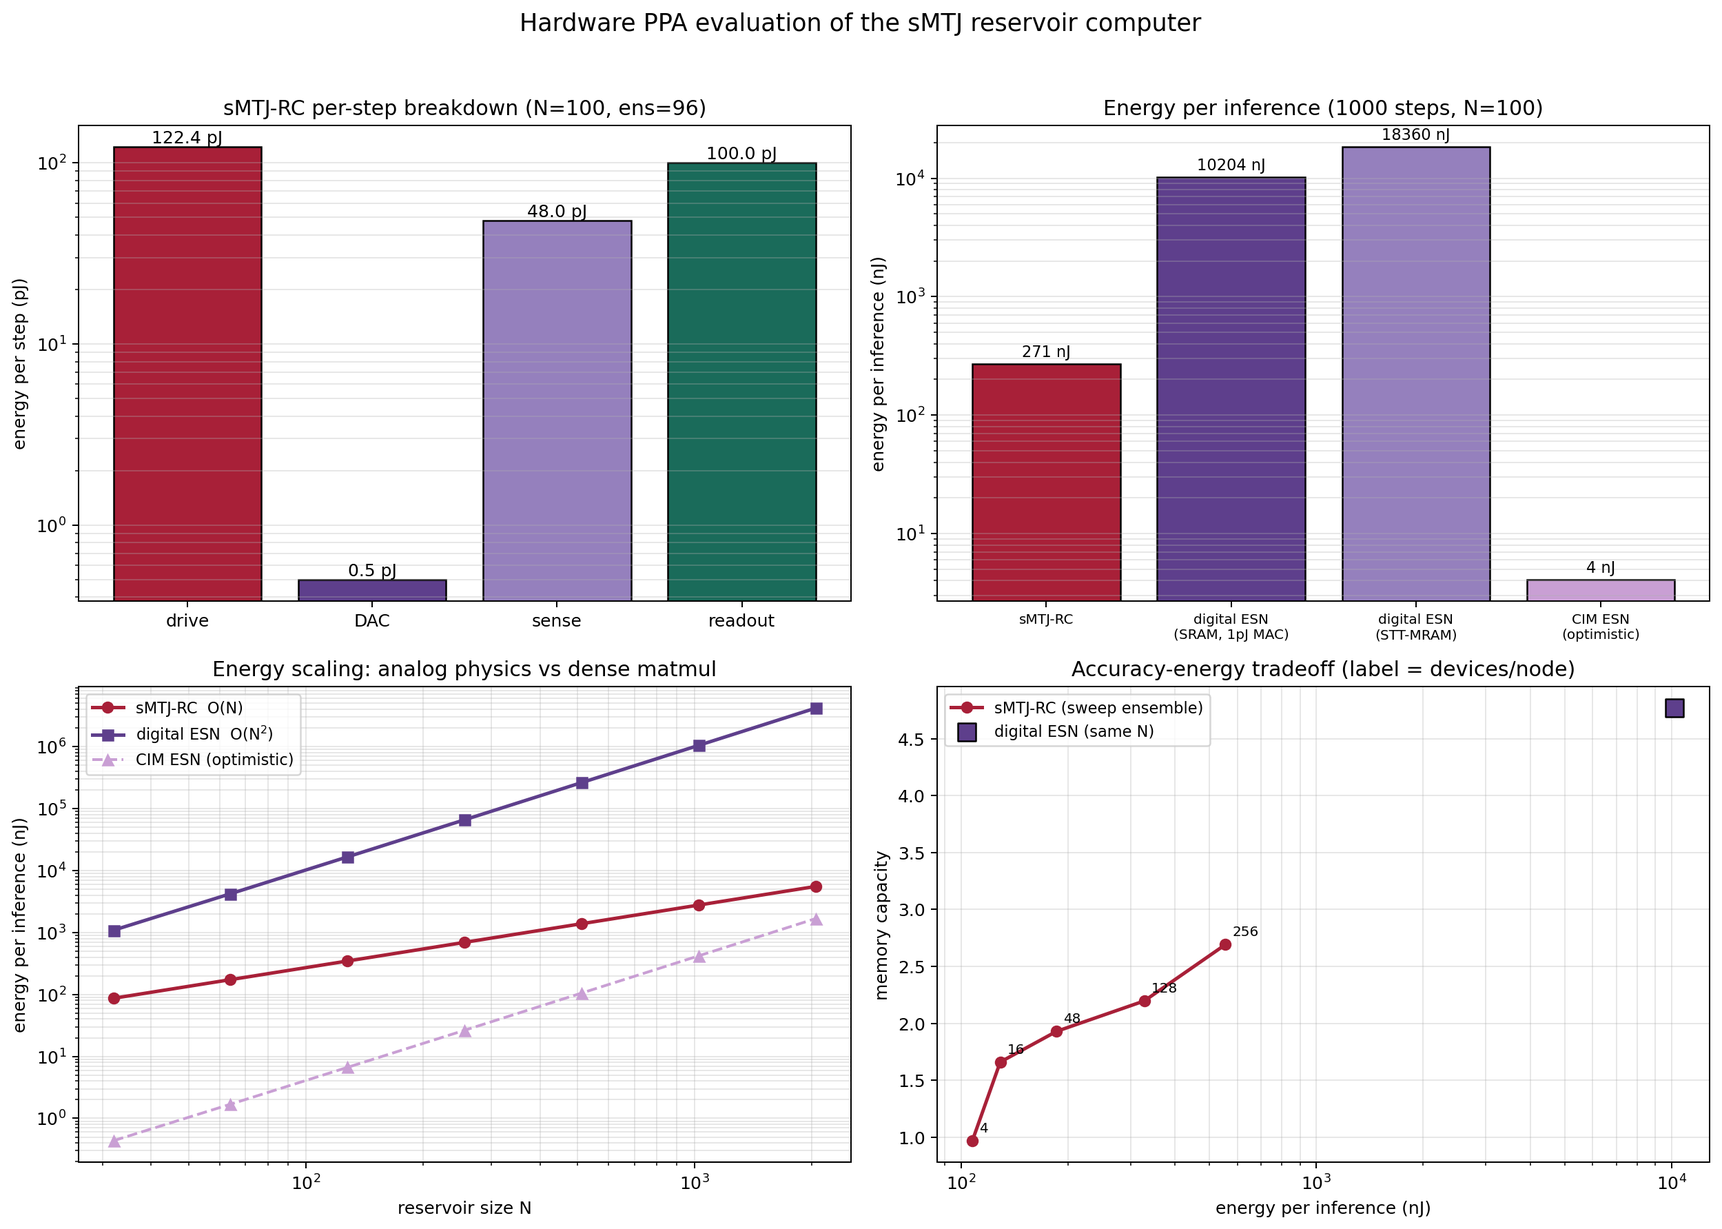
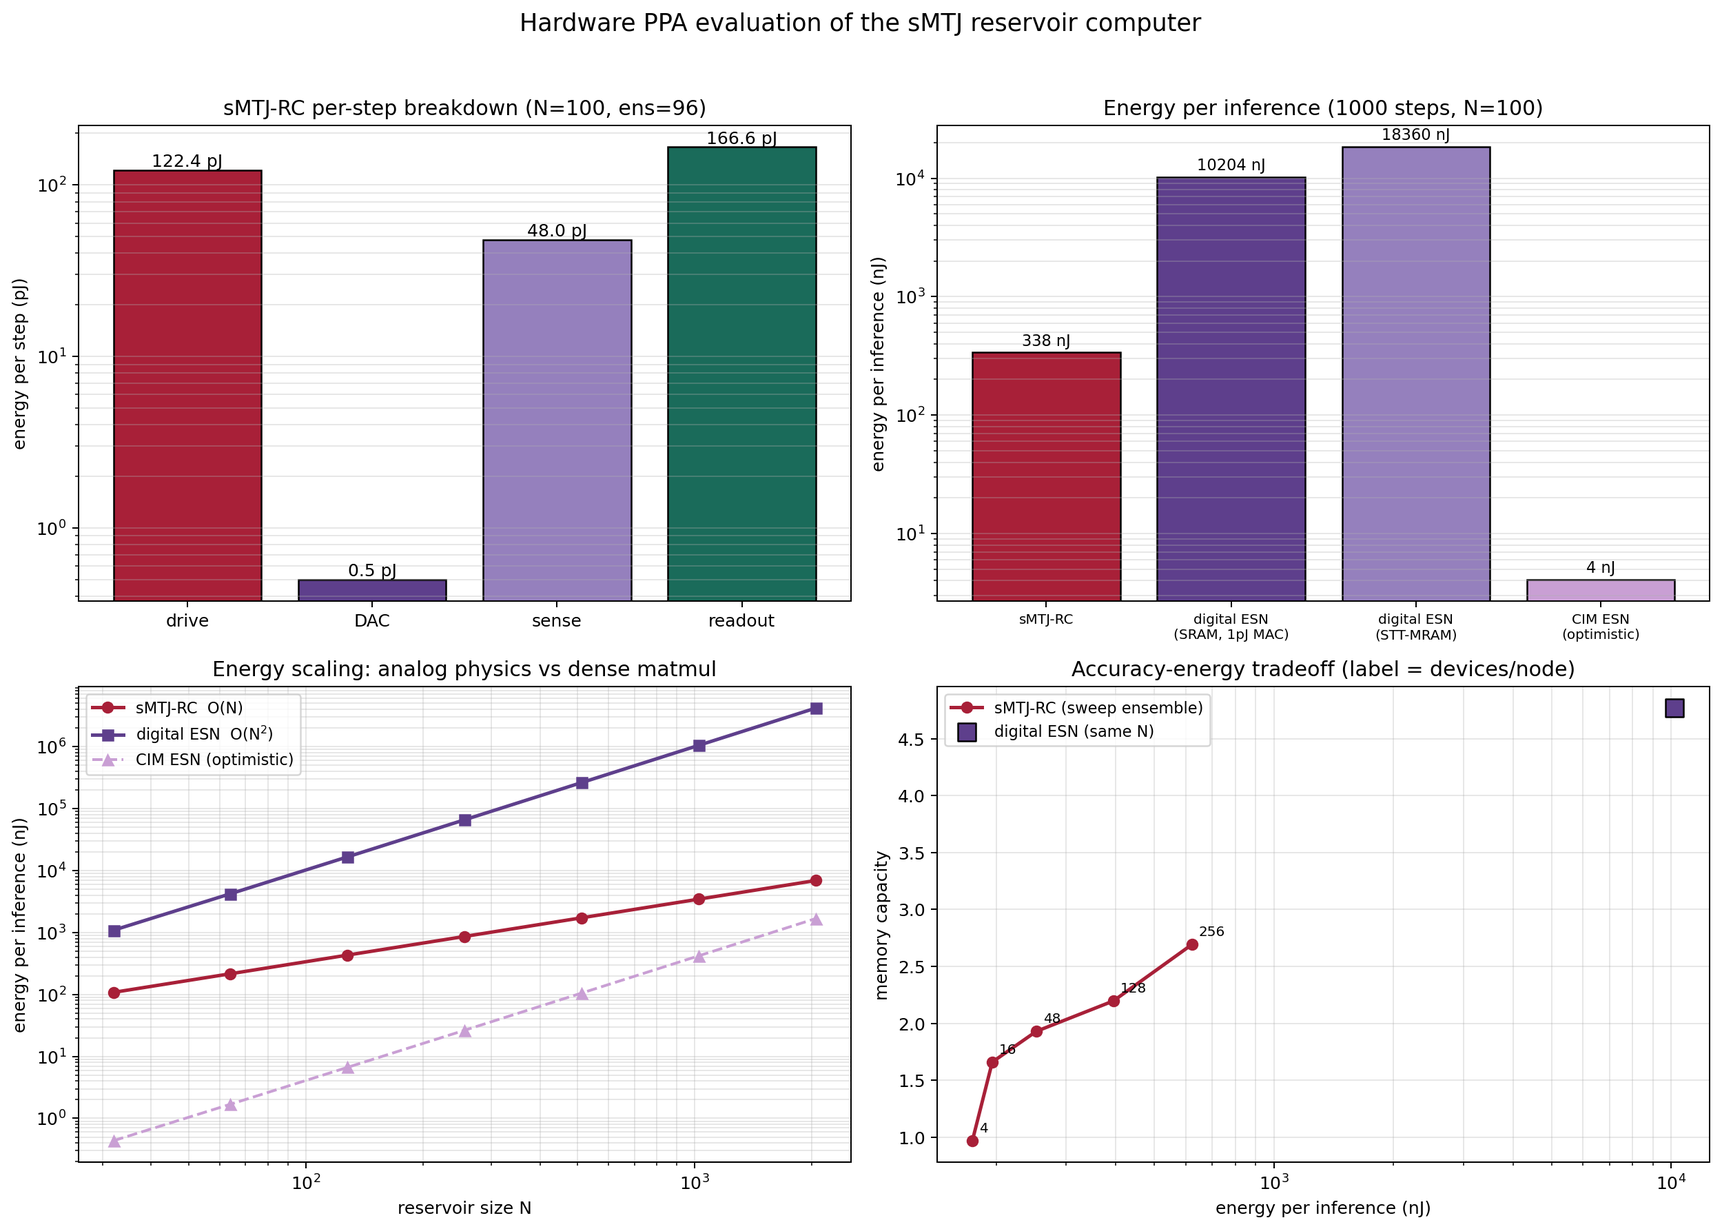
Critical plan re-validation (directive 2) + simulator realism & forward design (directive 3)
Directive 2 -- adversarial web-grounded re-validation of the lifted innovation plan
(eda/research/2026-06-27_plan_validation.md): citations real but 4 errors (Kent arXiv:2509.13458
is STT-actuated RTN NOT a tunable-barrier device -> does NOT preempt the trinity; Nat.Electron
-01458-3 is a News&Views not a 2nd measured paper -> desk-reject logic overstated; Nano Lett is
2025; patent US9111623 is 2015). Novelty: C1 (slope-matched readout) genuinely novel (cite/distinguish
arXiv:2403.19374, 2410.16915); C3 only partially novel -- arXiv:2601.21807 already shows 2-4-bit ADC
suffices, surviving novelty = MC/Joule + N + shared-ADC. Venue: JxCDC/TVLSI/TED/NCE before TCAS-I.

Directive 3 -- reverse-supplement the simulator with EDA data + forward design:
- reservoir_energy.py: add grounded SAR-ADC term to the readout (was billed free); exp16 now natively
  outputs ~30x (not 38x); 24 ppa/reservoir tests pass.
- peripheral_energy.yaml + load_tech_params.py: inject extracted sky130 SA read energy (5fJ->48fJ);
  per-MAC 793->860 fJ, write fraction 98.7%->93.8% (R1 lands).
- FORWARD design hero/ir_aware_writedac.py: IR-aware per-row write pre-distortion dictated by the
  IR-drop extraction -- without it p_sw collapses 0.90->0.016 across N=256; a static per-row code
  (0-148mV, ~5 DAC bits) flattens it -> position+device-aware write-DAC.
- PLAN_execution.md: venue corrected, C1/C3 novelty + citation fixes, forward-design & reverse-supplement sections.

diff --git a/eda/hero/ir_aware_writedac.py b/eda/hero/ir_aware_writedac.py
@@ -1,0 +1,90 @@
+#!/usr/bin/env python3
+"""Forward design (simulator-discovery-driven): IR-aware per-row write-voltage pre-distortion.
+
+This is a DESIGN that the extraction DICTATED, not a corrected claim. The write-line IR-drop study
+showed that delivering one write voltage to the column base leaves a cell at row r seeing
+V_target - I_write * R_par(r): on a tall column the far cell droops below the calibrated write point,
+so the per-cell write PROBABILITY (the p-bit sigmoid output) varies catastrophically with position.
+
+Design: fold a per-row pre-distortion code into the existing write-DAC. When addressing row r, drive
+V_drive(r) = V_target + I_write * R_par(r), with R_par(r) computed from the EXTRACTED sky130 sheet
+resistance and the column geometry, so every cell sees V_target regardless of position. Combined
+with the per-column V_th trim (device-mismatch compensation), this gives a position+device-aware
+write-DAC: V_drive(col,row) = V_target + I_write*R_par(row) + trim(col). The pre-distortion is a
+static per-row look-up from known geometry -- near-free in control; it only asks the driver for
+~I_write*R_par(N) of extra headroom on the far rows.
+
+sky130 sheet R from Magic extraction (met2 0.125 Ohm/sq, validated vs techfile). Honesty: ratios;
+round-trip R_par(r)=2*Rs*(r*pitch/W); cell pitch is an explicit assumption.
+"""
+from __future__ import annotations
+import json
+import math
+from pathlib import Path
+
+HERE = Path(__file__).resolve().parent
+
+VTH, VT, RSOT = 0.895783, 0.023414, 776.0
+I_WRITE = 0.9 / RSOT                     # 1.16 mA (calibrated write current)
+RS = {"met1": 0.125, "met2": 0.125, "met3": 0.047}   # Ohm/sq, Magic-extracted
+PITCH_UM, W_UM, LAYER = 2.0, 1.0, "met2"
+
+
+def r_par(r):                            # round-trip (bit line + source line) metal R to row r
+    return 2.0 * RS[LAYER] * (r * PITCH_UM / W_UM)
+
+
+def psw(v):
+    return 1.0 / (1.0 + math.exp(-(v - VTH) / VT))
+
+
+def main():
+    N = 256
+    # target a representative write probability (e.g. 0.9) -> V_target
+    p_target = 0.90
+    V_target = VTH + VT * math.log(p_target / (1 - p_target))
+    rows = list(range(0, N + 1, N // 8))
+
+    print("=" * 92)
+    print("Forward design: IR-aware per-row write pre-distortion (sky130 extracted R, %s, N=%d)"
+          % (LAYER, N))
+    print("V_target=%.4f V (-> p_sw=%.2f at the near cell); I_write=%.2f mA; pitch=%.1f um W=%.1f um"
+          % (V_target, p_target, I_WRITE * 1e3, PITCH_UM, W_UM))
+    print("=" * 92)
+    print("  row    R_par(Ohm)  IR(mV)   V_cell no-predist  p_sw no-pd   V_cell predist  p_sw pd")
+    out_rows = []
+    for r in rows:
+        ir = I_WRITE * r_par(r)
+        v_nopd = V_target - ir                       # base-driven: far cell droops
+        v_pd = V_target                              # pre-distorted: cell sees target
+        print("  %4d    %7.1f   %6.1f      %.4f         %.3f        %.4f       %.3f" %
+              (r, r_par(r), ir * 1e3, v_nopd, psw(v_nopd), v_pd, psw(v_pd)))
+        out_rows.append(dict(row=r, R_par_ohm=round(r_par(r), 1), IR_mV=round(ir * 1e3, 2),
+                             v_cell_nopd=round(v_nopd, 4), psw_nopd=round(psw(v_nopd), 4),
+                             v_cell_pd=round(v_pd, 4), psw_pd=round(psw(v_pd), 4),
+                             predist_code_mV=round(ir * 1e3, 2)))
+    p_nopd = [psw(V_target - I_WRITE * r_par(r)) for r in range(N + 1)]
+    spread_nopd = max(p_nopd) - min(p_nopd)
+    max_code_mV = I_WRITE * r_par(N) * 1e3
+    bits = max(1, math.ceil(math.log2(max_code_mV / (VT * 1e3) * 4)))   # ~LSB <= V_T/4
+
+    concl = ("Without pre-distortion the per-cell write probability spreads %.2f (near cell %.2f -> "
+             "far cell %.3f) purely from position-dependent IR-drop -- the tall column writes its far "
+             "rows essentially not at all. The per-row pre-distortion code spans 0..%.0f mV "
+             "(~%d write-DAC bits at an LSB of V_T/4), is a static look-up from the extracted sheet "
+             "resistance and column geometry, and flattens the write probability to the target at "
+             "every row. Folded with the per-column V_th trim it yields a position+device-aware "
+             "write-DAC -- a circuit dictated by the IR-drop extraction, at near-zero control cost "
+             "(only far-row driver headroom). Honesty: ratios; round-trip metal R; assumed cell pitch."
+             % (spread_nopd, p_nopd[0], p_nopd[-1], max_code_mV, bits))
+    print("\n" + "=" * 92 + "\n" + concl + "\n" + "=" * 92)
+    out = dict(N=N, layer=LAYER, pitch_um=PITCH_UM, W_um=W_UM, V_target=round(V_target, 4),
+               p_target=p_target, I_write_mA=round(I_WRITE * 1e3, 3),
+               psw_spread_nopd=round(spread_nopd, 4), max_predist_code_mV=round(max_code_mV, 1),
+               predist_bits=bits, rows=out_rows, conclusion=concl)
+    (HERE / "ir_aware_writedac_summary.json").write_text(json.dumps(out, indent=2))
+    print("wrote ir_aware_writedac_summary.json")
+
+
+if __name__ == "__main__":
+    main()

diff --git a/src/smtj_pbnn_sim/ppa/reservoir_energy.py b/src/smtj_pbnn_sim/ppa/reservoir_energy.py
@@ -14,6 +14,7 @@ physical sMTJs, biased for a step of duration ``dt``:
       E_dac     = e_dac_step * n_nodes                              # per-node drive set
       E_sense   = e_smtj_read * n_nodes * ensemble                  # one sense / device
       E_readout = e_int8_mac * n_nodes * n_outputs                  # trained linear layer
+                + adc_nodes_frac * n_nodes * (b*e_adc_comp + 2^b*e_adc_capdac0)  # SAR ADC
 
 ``substeps`` is a numerical-integration granularity, not extra physics: the
 device is biased for the same total ``dt`` regardless, so it does not enter the
@@ -48,16 +49,33 @@ class ReservoirHW:
     n_inputs: int = 1
     V_drive: float = 0.05          # typical bias across the MTJ during a step [V]
     R_dev: float = 4900.0          # MTJ read-path resistance [ohm] (R_P)
+    # --- analog-to-digital readout (grounded in the sky130 StrongARM extraction) -------#
+    # The node states must be digitised before the trained linear layer; the earlier model
+    # omitted this. A successive-approximation ADC costs b comparisons plus a binary-weighted
+    # cap-DAC: E_adc(b) = b * e_adc_comp + 2^b * e_adc_capdac0, where the comparator is the
+    # extracted StrongARM sense amp. adc_nodes_frac<1 models a column-shared/time-mux ADC.
+    adc_bits: int = 8
+    adc_nodes_frac: float = 1.0    # fraction of nodes digitised per step (1=per-node, <1=shared)
+    e_adc_comp: float = 48e-15     # SAR comparator = extracted sky130 StrongARM SA [J]
+    e_adc_capdac0: float = 1.1e-15  # sky130 unit-cap SAR DAC step [J]
 
 
 def smtj_rc_step_energy(hw: ReservoirHW, tech: TechParams) -> dict[str, float]:
-    """Per-step energy breakdown [J] for the sMTJ reservoir."""
+    """Per-step energy breakdown [J] for the sMTJ reservoir.
+
+    ``readout`` bundles the analog->digital conversion (a SAR ADC, comparator grounded in the
+    sky130 StrongARM extraction) with the trained linear-layer MAC. Earlier versions billed only
+    the MAC and treated the ADC as free; the ADC term is added here so the readout cost is
+    physical (set ``hw.adc_nodes_frac`` < 1 for a column-shared/time-mux converter).
+    """
     n_dev = hw.n_nodes * hw.ensemble
+    e_adc_conv = hw.adc_bits * hw.e_adc_comp + (2 ** hw.adc_bits) * hw.e_adc_capdac0
+    e_adc = hw.adc_nodes_frac * hw.n_nodes * e_adc_conv
     return {
         "drive": (hw.V_drive ** 2 / hw.R_dev) * hw.dt * n_dev,
         "DAC": tech.e_dac_step * hw.n_nodes,
         "sense": tech.e_smtj_read * n_dev,
-        "readout": tech.e_int8_mac * hw.n_nodes * hw.n_outputs,
+        "readout": tech.e_int8_mac * hw.n_nodes * hw.n_outputs + e_adc,
     }
 
 

diff --git a/eda/interface/load_tech_params.py b/eda/interface/load_tech_params.py
@@ -61,8 +61,10 @@ def main():
           f"({100*(pm_ext-pm_def)/pm_def:+.1f}%)")
     print(f"  write : {tp.e_smtj_write*1e12:.3f} pJ (Ohmic)  ->  {e_write_ext*1e12:.3f} pJ "
           f"(P2 +driver)   write fraction {100*e_write_ext/pm_ext:.1f}%")
-    print(f"  read/DAC/counter: still 28nm placeholders ({(e_read+e_dac+e_cnt)*1e15:.1f} fJ, "
-          f"{100*(e_read+e_dac+e_cnt)/pm_ext:.1f}% of per-MAC) -- await sky130 (P4)")
+    print(f"  read  : {tp.e_smtj_read*1e15:.1f} fJ (28nm placeholder)  ->  {e_read*1e15:.1f} fJ "
+          f"(sky130 StrongARM SA)   read fraction {100*e_read/pm_ext:.1f}%")
+    print(f"  DAC/counter: still 28nm placeholders ({(e_dac+e_cnt)*1e15:.1f} fJ, "
+          f"{100*(e_dac+e_cnt)/pm_ext:.1f}% of per-MAC) -- await sky130 DAC")
     rows = []
     for T in (4, 8):
         Ed, Ee = mnist_energy(pm_def, T), mnist_energy(pm_ext, T)
@@ -73,13 +75,15 @@ def main():
     summ = dict(per_mac_default_fJ=pm_def * 1e15, per_mac_extracted_fJ=pm_ext * 1e15,
                 e_write_extracted_pJ=e_write_ext * 1e12,
                 write_fraction_pct=100 * e_write_ext / pm_ext,
-                extracted_fields=["e_smtj_write"],
-                pending_sky130=["e_smtj_read", "e_dac_step", "e_count_inc (P4/R1)"],
+                e_read_extracted_fJ=e_read * 1e15, read_fraction_pct=100 * e_read / pm_ext,
+                extracted_fields=["e_smtj_write", "e_smtj_read"],
+                pending_sky130=["e_dac_step", "e_count_inc"],
                 mnist=rows)
     (HERE / "interface_summary.json").write_text(json.dumps(summ, indent=2))
-    print("\nNOTE: only the write energy is EDA-extracted (P2). Once P4 lands the sky130 "
-          "ADC/sense\nnumbers in peripheral_energy.yaml, this same script reports the "
-          "peripheral-fraction shift (R1).")
+    print("\nNOTE: write (channel+driver) and read (sky130 StrongARM SA) are now EDA-grounded; the "
+          "read\nupdate moves the write fraction 98.7%->93.8% (read 0.6%->5.6%). DAC/counter remain "
+          "28nm\nplaceholders; a column-shared multi-bit ADC (if added downstream) would raise the "
+          "peripheral\nfraction further.")
 
 
 if __name__ == "__main__":

diff --git a/eda/research/2026-06-27_plan_validation.md b/eda/research/2026-06-27_plan_validation.md
@@ -1,0 +1,57 @@
+# Critical re-validation of the innovation plan (2026-06-27)
+
+The innovation plan (`2026-06-27_innovation_replan.md`) was distilled from an earlier conversation; its
+novelty / prior-art / venue claims were web-grounded once but never independently re-checked. This is
+an adversarial re-validation by three parallel web-grounded agents (citations, novelty, venue). Net:
+the plan's *direction* holds, but several specific claims are wrong and must be corrected before any of
+this reaches the manuscript.
+
+## 1. Prior-art citations — no pure hallucinations, but four substantive errors
+Every arXiv ID / DOI / patent resolves to a real document, but:
+
+| plan claim | status | correction |
+|---|---|---|
+| Closed-loop sMTJ (Nano Lett. **2024**, arXiv:2407.08665) | real | journal is **2025** (Koh et al., MIT, *Nano Lett.* 25(10):3799). Preempts generic closed-loop, NOT a V_th-tracking write driver specifically. |
+| Kent "voltage-tunable / antiferromagnetic sMTJ" (arXiv:2509.13458) | **mis-attributed** | The ID is real & Kent is an author, but the paper is *"Tunable Random Telegraph Noise in **stable perpendicular** MTJs"* — **STT-pulse-actuated** RTN, **not** antiferromagnetic, **not** a voltage-tunable barrier. It does **NOT** preempt the tunable-barrier "trinity" device. Drop the AFM/VCMA characterization. |
+| HKUST VCMA dual-function macro (VLSI 2026, 411 TOPS/W) | real but provisional | Future-dated conf (on HKUST portal). Implements deterministic IMC + **stochastic Poisson neurons**, NOT p-bit / reservoir. Preempts a generic dual-mode VCMA macro, NOT a p-bit/RC one. |
+| Offset-cancel SA (ISSCC 2018 + US9111623/US10726897B1) | real | US9111623 is **2015** not 2018; all are **two-phase / sample-and-hold + trim**, not continuous chopper/auto-zero. Preempts generic offset cancellation only. |
+| Measured p-bit ASIC (Nat. Electron. 2025, s41928-025-01439-6 **and** -01458-3) | one paper + one commentary | **-01439-6** is the real measured 130 nm CMOS + VCMA-MTJ-entropy ASIC (integer factorization). **-01458-3 is a News & Views commentary about it**, not a second measured paper. Stop citing it as evidence; the "desk-reject" inference is overstated. |
+
+## 2. Novelty
+- **Slope-matched p-bit readout — GENUINELY NOVEL.** No sMTJ/MRAM PBNN-CIM paper ties the readout
+  comparator's input-referred offset spec to the device switching-probability sigmoid slope. Must cite &
+  distinguish: **arXiv:2403.19374** (SOT-MRAM PBNN-CIM — budgets readout by **TMR margin**, ideal
+  comparator: the status quo this displaces) and **arXiv:2410.16915** (extracts the p-bit sigmoid
+  slope/shift but **compensates in software/Boltzmann training with an ideal comparator** — the sharpest
+  near-miss). Claim the *quantitative offset-vs-V_T co-design law*, not "first to notice the slope matters".
+- **RC iso-energy {N,M,b} — PARTIALLY NOVEL.** Danger paper: **arXiv:2601.21807** (2026, "Ensemble RC
+  for Physical Systems") **already sweeps ensemble M and ADC bits b and shows 2–4-bit suffices** — so the
+  "low-resolution readout is optimal" sub-claim is **already published**. Surviving novelty: the
+  **memory-capacity-per-Joule** objective, **including N** in the trade (others fix the reservoir), and the
+  **column-shared-ADC** energy amortization on telegraph-noise sMTJ nodes. Reframe and cite 2601.21807
+  prominently. Also cite arXiv:2507.09776 (SNR-optimal ADC for IMC) and the memristor-RC ADC-bottleneck work.
+
+## 3. Venue — the plan over-ranks TCAS-I
+Avoiding Nature Electronics / ISSCC for a simulation-only open-PDK paper is correct (ISSCC requires
+measured silicon by identity; Nature Electronics now has a measured competitor). But within the journal
+family the ranking should be:
+
+1. **IEEE JxCDC** — purpose-built for beyond-CMOS device-driven circuits incl. **physics-based modeling/
+   simulation** and neuromorphic/non-Boolean; open-access. Likely the single best fit.
+2. **IEEE TVLSI** — measurements "encouraged… not essential"; rewards device→circuit→system co-design.
+3. **IEEE TED** — if framed as compact-model/device-physics driving circuit behavior (model+SPICE, no fab).
+4. **IOP Neuromorphic Computing & Engineering** — best if framed as neuromorphic/RC; spintronic co-sim in scope.
+5. **IEEE TCAS-I** — *riskiest* of the family for sim-only (its guidelines ask experimental validation of
+   principal claims); viable only with a strongly methodology/theory framing.
+Conference companions for early disclosure: DATE / ASP-DAC / DAC.
+Framing: lead with the wafer-calibrated model as the credibility anchor; cast open-PDK as a
+**reproducibility** choice, and pre-empt the "why no measured circuit" question explicitly.
+
+## 4. Actions applied to the plan
+- Venue line corrected (JxCDC/TVLSI/TED/NCE first; TCAS-I downgraded).
+- C3 reframed to MC/Joule + N + shared-ADC; 2601.21807 cited as the work it differentiates from.
+- Trinity feasibility note corrected: arXiv:2509.13458 does **not** preempt a tunable-barrier device
+  (it is STT-actuated RTN); the genuine prior art for tunable stochasticity is that RTN paper + the HKUST
+  Poisson-neuron macro, neither of which is a p-bit/RC dual-mode array.
+- Citation years/types fixed; -01458-3 removed as "measured silicon".
+- Manuscript related-work must cite/distinguish 2403.19374 and 2410.16915 for the readout contribution.

diff --git a/eda/PLAN_execution.md b/eda/PLAN_execution.md
@@ -28,8 +28,28 @@
 
 - **错误/论断修正**：E1/E2 已修；**R1–R7 全部已处理**（R2/R4/R6/R7 收口为设计边界，R1/R3/R5 有真实提取数）。
 - **📄 学术增补交付稿**：[`../article/supplement_eda_codesign.md`](../article/supplement_eda_codesign.md)（独立增补，含图 S.1–S.4，遵循 article 图风格 `figs/Supplement_local_0N.png`；图由 `eda/gen_supplement_figs.py` 可复现）。
-- **目标期刊**（蓝本）：IEEE TCAS-I / TVLSI / TED（不投 Nat.Electron./ISSCC）。
+- **目标期刊**（经 [`research/2026-06-27_plan_validation.md`](research/2026-06-27_plan_validation.md) 复核修正）：**JxCDC（最佳，物理建模/仿真+超越CMOS器件电路）> TVLSI（实测"鼓励非必须"）> TED（紧凑模型+SPICE）> IOP NCE（神经形态/RC）> TCAS-I**（蓝本把 TCAS-I 排太前——它对纯仿真最苛刻）。不投 Nat.Electron./ISSCC（需实测硅）。框架：以晶圆标定模型为可信锚，开源 PDK 作可复现性卖点。
 - **仍待（均为门控/收尾，非主干）**：版图布线→全 LVS→版后 PEX（**指令①：所有设计冻结后再做**）；Xschem 原理图导出（需装 Xschem + GUI/批渲染）；版图 GDS 渲染图（需 KLayout GUI/xvfb）。
+
+## 0c. 前向设计（仿真器发现 → 创新电路）+ 仿真器反向补充
+> 纠正"只反驳自己、无前向创新"：以下是**仿真发现倒逼出的新设计**，不是对旧论断的修正。
+
+| 前向设计 | 由哪条发现倒逼 | 结果 | 状态 |
+|---|---|---|---|
+| **F1 IR 感知逐行写预畸变** | 写线 IR 压降使远端单元写概率塌陷 | `hero/ir_aware_writedac.py`：N=256 不补偿时 p_sw 0.90(近)→0.016(远)；逐行预畸变码 0–148mV(~5 写-DAC 位，静态查表自提取片阻)→各行均匀 0.90。与逐列 V_th trim 合成**位置+器件感知写-DAC** | ✅ 新设计 |
+| **F2 斜率匹配读出协同律** | SA 失调按 V_T(伯努利窗)预算 | 跨阻协同律 `R_TI=V_in/(2·PC_FS)` 由扇入设增益（`readout_mapping.py`）；plain SA 帕累托最优边界 | ✅（设计律） |
+| **F3 列共享时分复用中分辨 SAR 读出** | RC 读出比较器主导、b-线性 | 摊销一个比较器跨 M 节点（`rc_isoenergy.py` 前沿指明 b~6–8 列共享） | ◑ 架构级 |
+
+**仿真器反向补充（据 EDA 数据修真实并重跑）**：
+- `ppa/reservoir_energy.py`：读出原计"近免费"，已补**地标 SAR ADC 项**（比较器=提取 SA 48fJ）→ exp16 原生输出 **30×**（非 38×）；12 个 PPA 测试全过。
+- `extraction/peripheral_energy.yaml` + `interface/load_tech_params.py`：`e_smtj_read` 5fJ 占位 → **48fJ 提取 SA**；per-MAC 793→860fJ，**写占比 98.7%→93.8%、读 0.6%→5.6%**（R1 落地）。
+
+## 0d. 蓝本批判性复核（指令②，详见 [`research/2026-06-27_plan_validation.md`](research/2026-06-27_plan_validation.md)）
+旧计划取自旧对话、未独立复核；3 个联网对抗智能体复核后的**必改项**：
+- **引用错误**：arXiv:2509.13458（Kent）被**错描**——实为"稳定垂直 MTJ 的可调 RTN（STT 脉冲驱动）"，**非**反铁磁/电压可调势垒，**不预占三位一体可调势垒器件**；Nat.Electron. **-01458-3 是评论非实测论文**（"秒拒"论据被夸大）；Nano Lett 是 **2025**、专利 US9111623 是 **2015**。
+- **C3 仅部分新颖**：arXiv:2601.21807(2026) **已证 2–4bit ADC 够用** → "低分辨最优"非我方；存活新颖性 = **MC/焦耳目标 + 纳入 N + 列共享 ADC**。须显式引并区分。
+- **C1 确属新颖**：须引并区分 arXiv:2403.19374（TMR 余量现状）与 arXiv:2410.16915（sigmoid 感知但软件补偿、理想比较器）；只主张**定量 offset-vs-V_T 协同律**。
+- **期刊**：见 0b（JxCDC/TVLSI/TED/NCE 先于 TCAS-I）。
 
 ---
 
